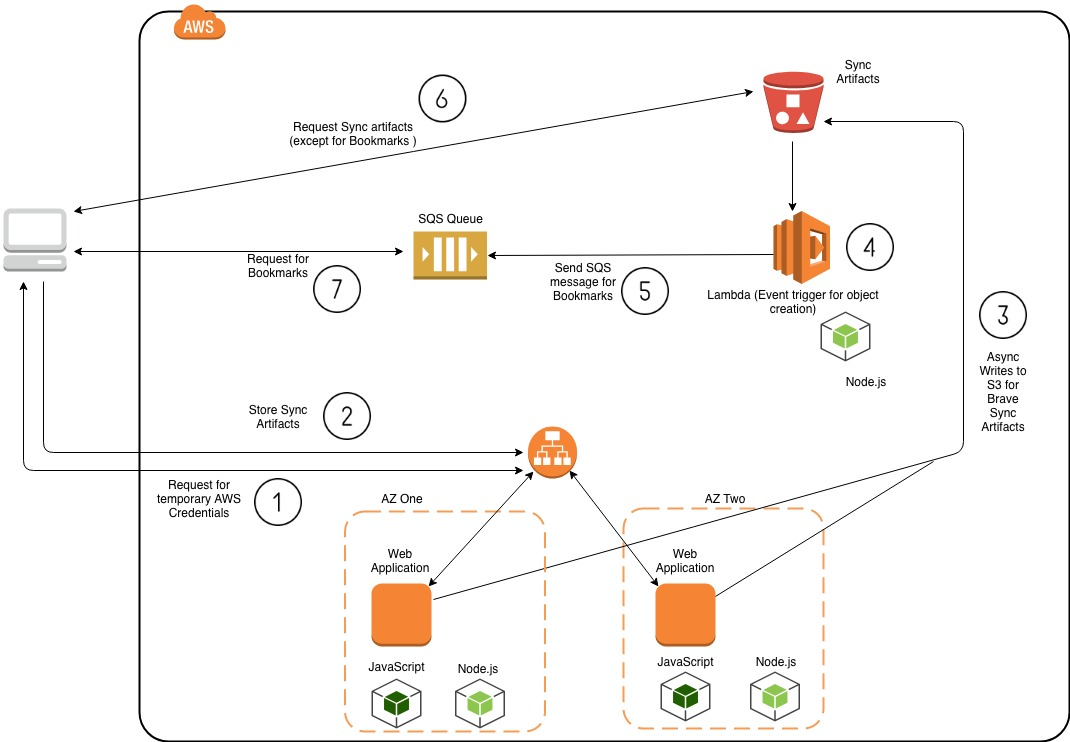
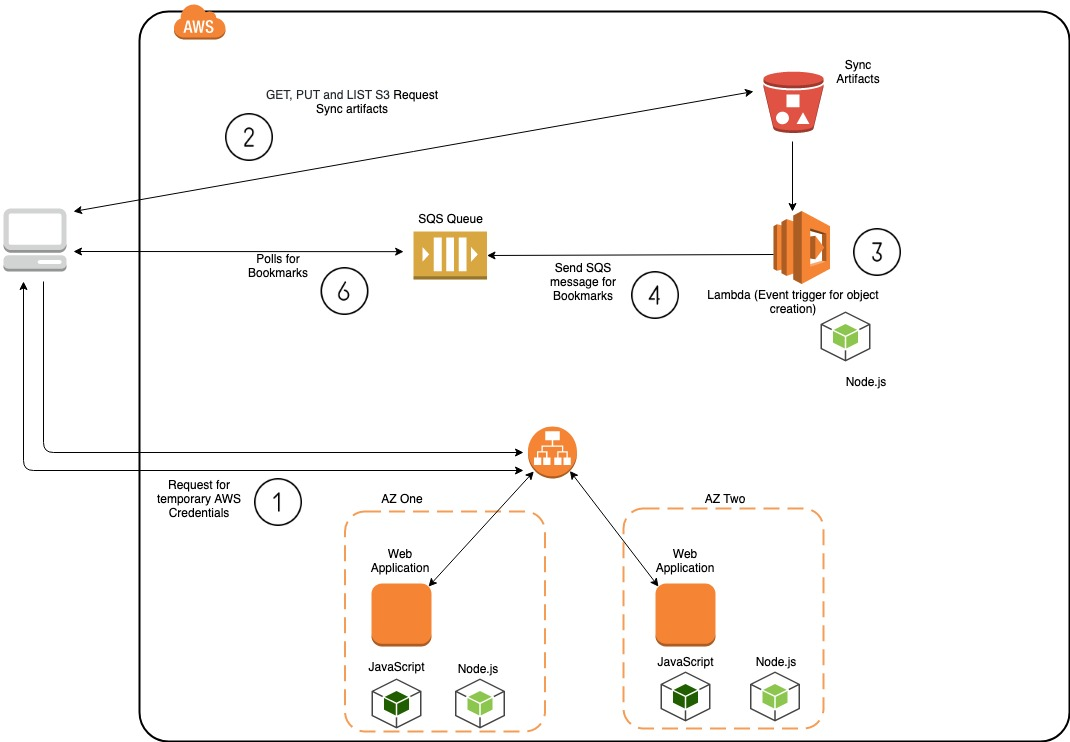
Update diagrams

diff --git a/architecture/README.md b/architecture/README.md
@@ -6,6 +6,12 @@ The purpose of this document is to provide recommendations to address performanc
 
 ![Brave Sync Design](diagrams/BraveSyncDiagram.jpg)
 
+### Preious Design
+In the previous design,
+Step 3 was different:
+
+![Brave Sync Design - Previous](diagrams/BraveSyncPreviousDiagram.jpg)
+
 ### Bottlenecks
 
 Bottlenecks in the current design include the following:
